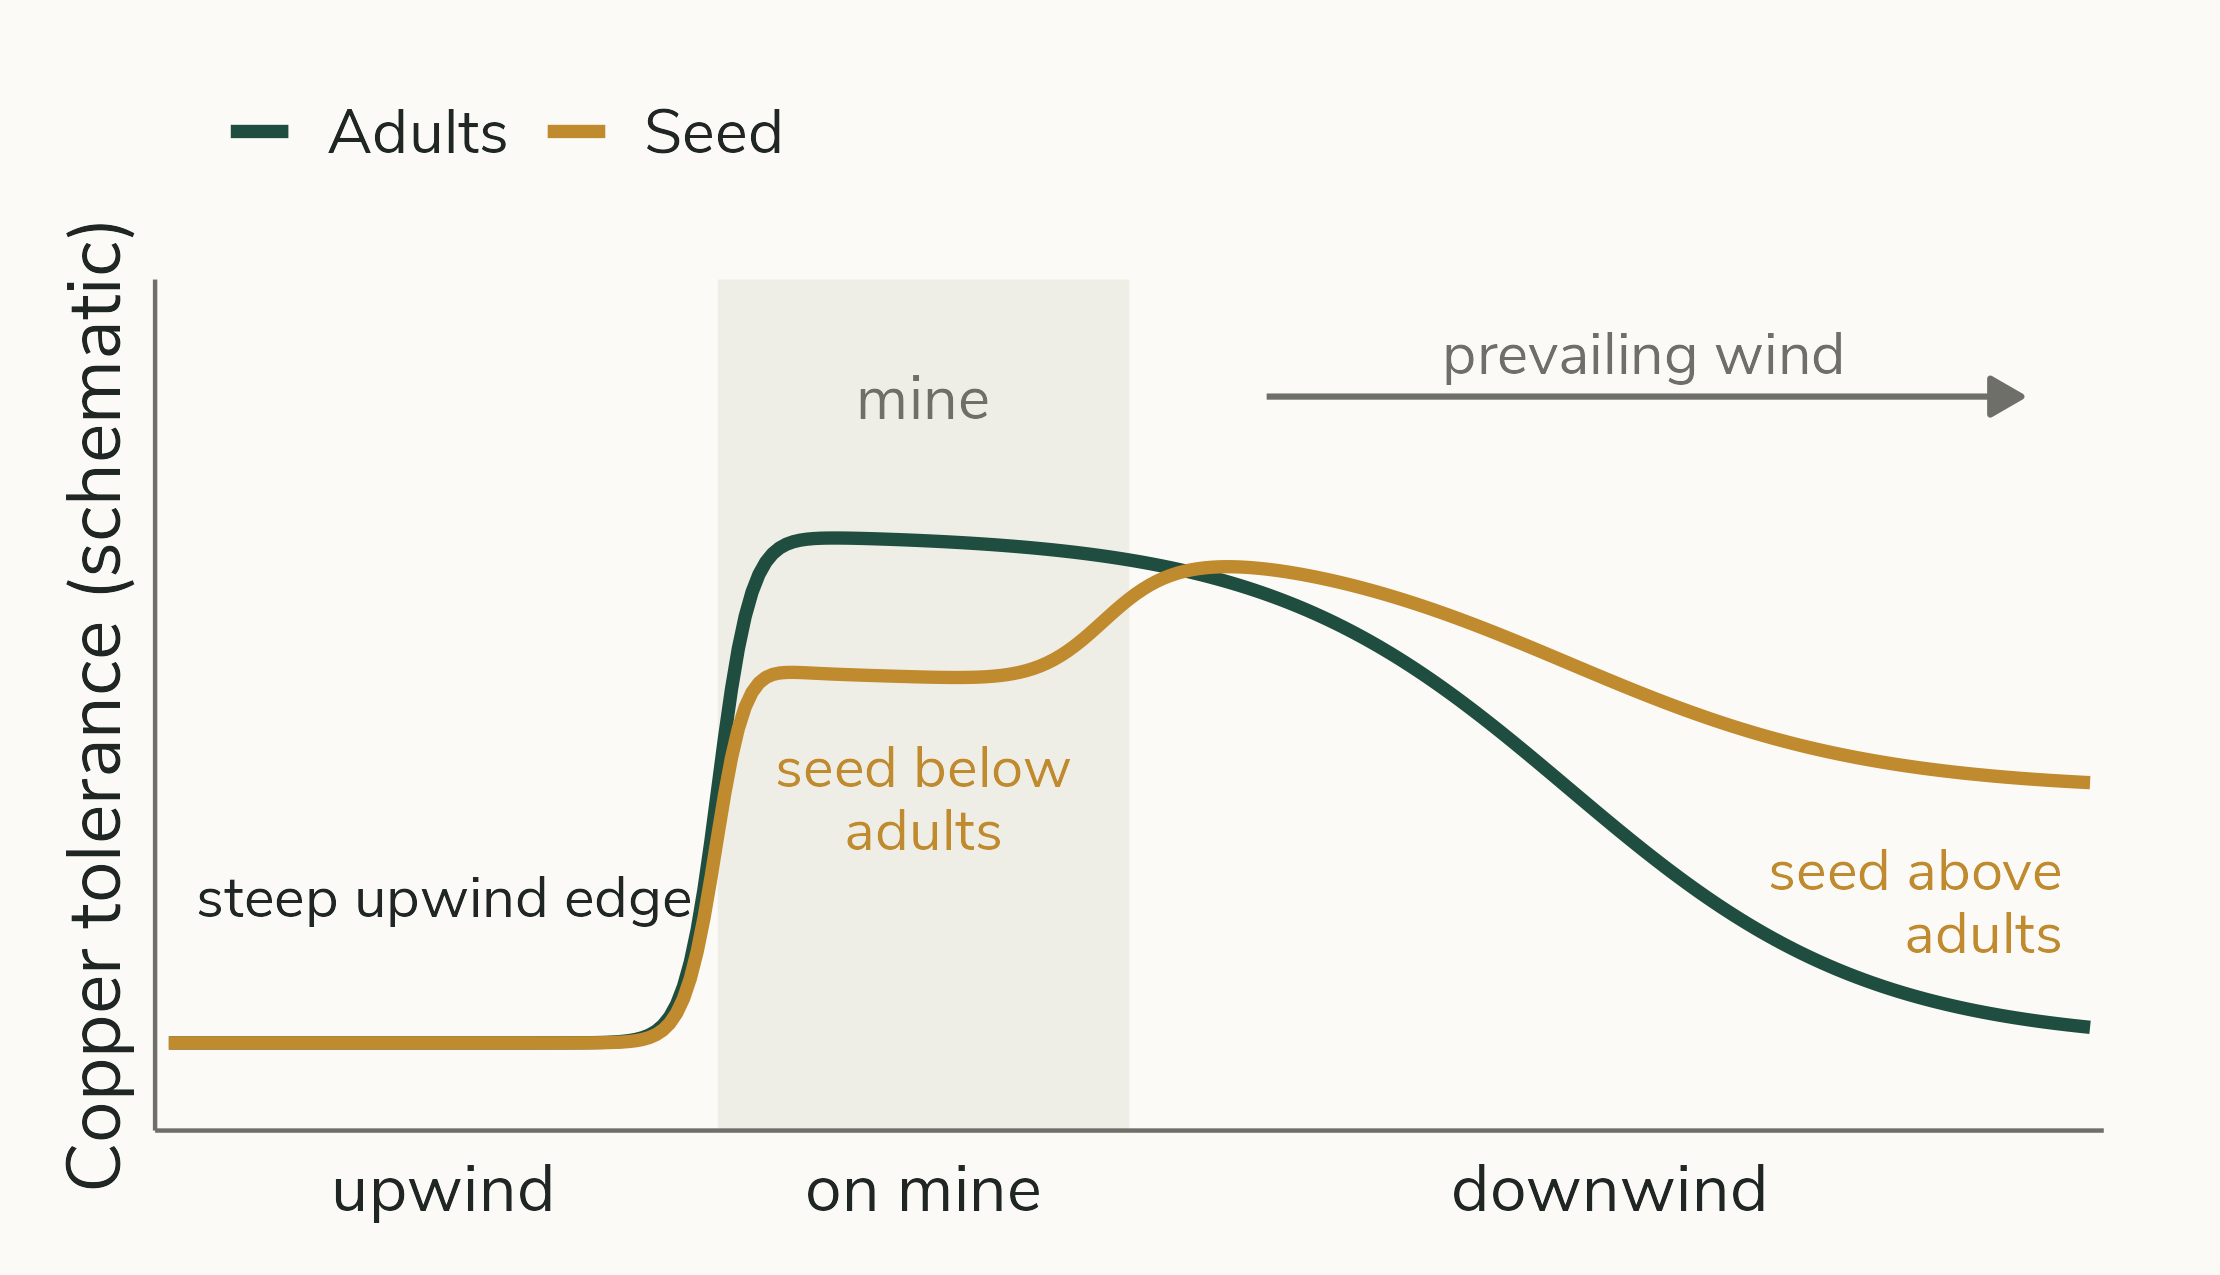
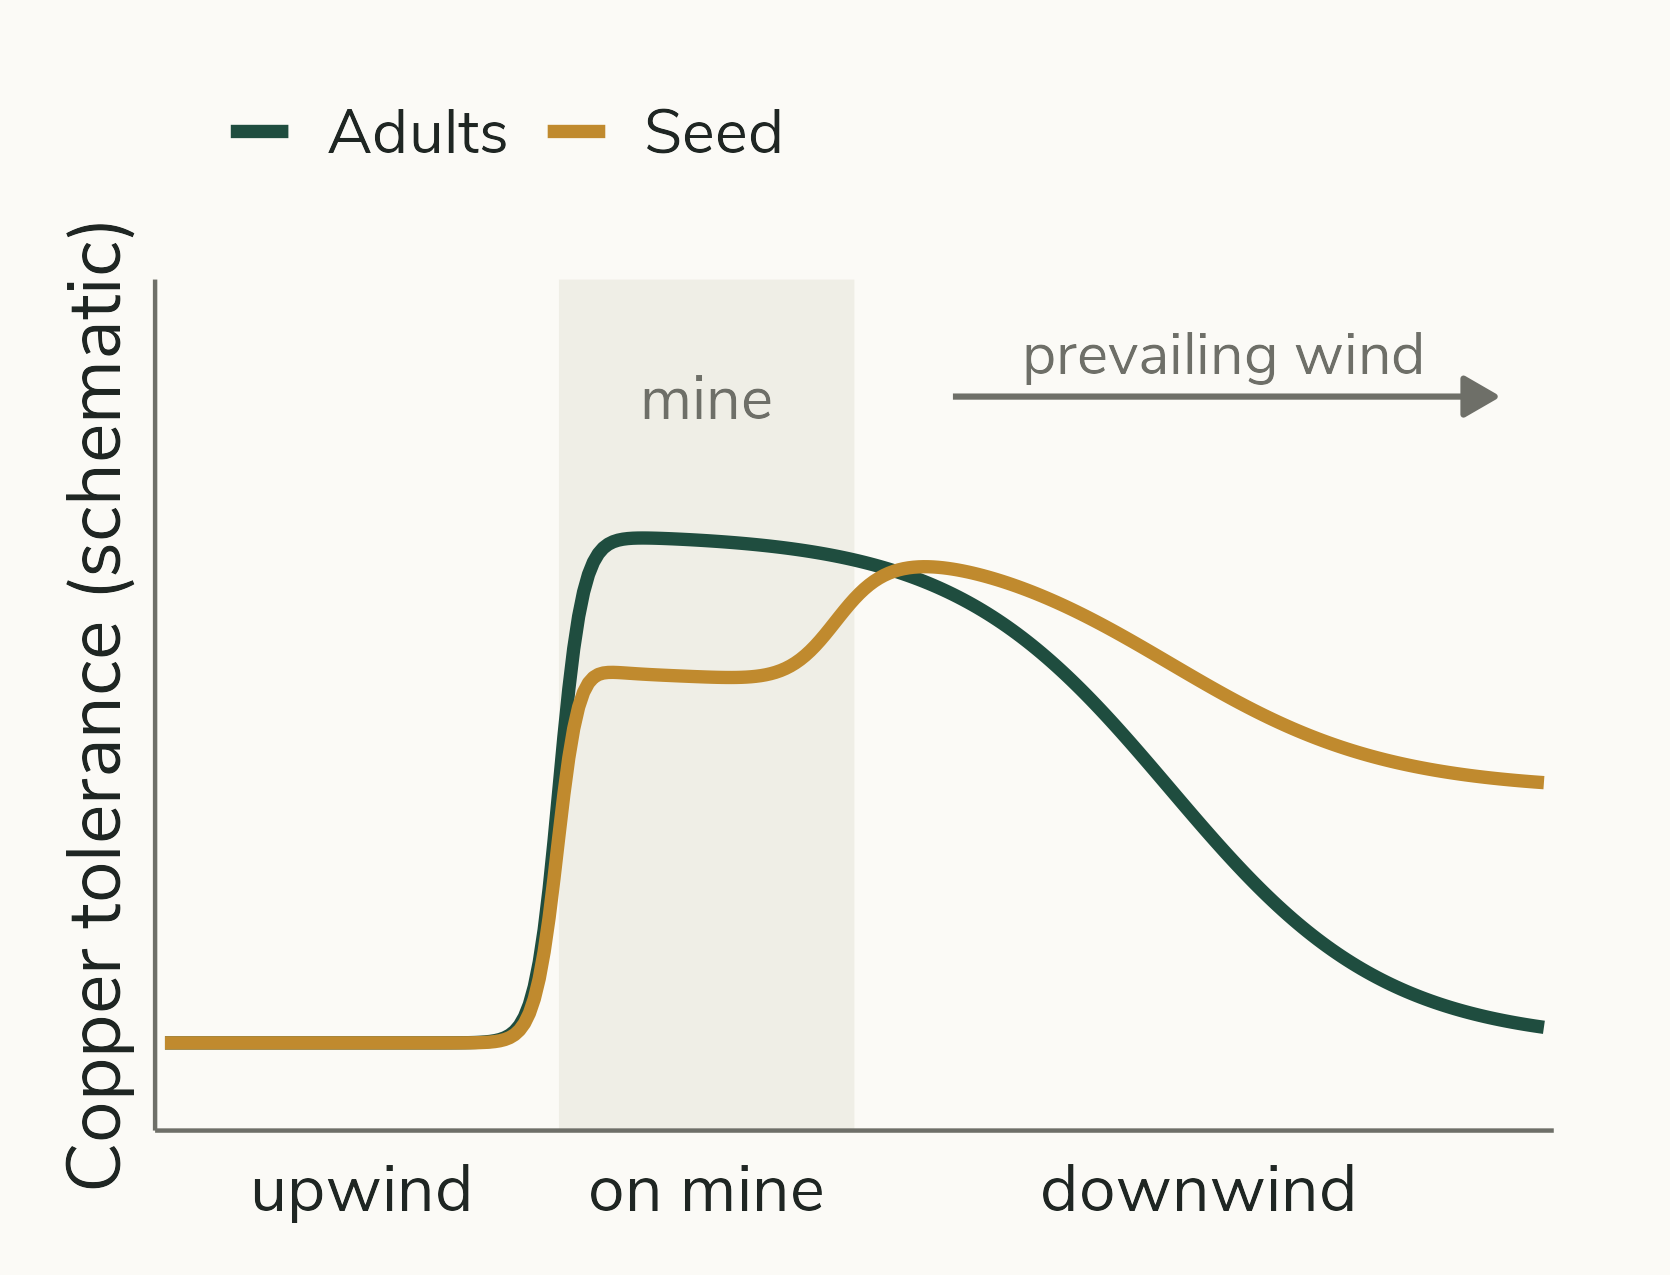
Lecture 12: make the copper-tolerance slide self-explanatory
Half-width figure with explanatory text: what seed and adults represent and
why the seed-adult difference reverses between the mine and downwind.

Claude-Session: https://claude.ai/code/session_01VCei2kxsiPRLUTCQGBi3dy

diff --git a/lecture_figures/migration_gene_flow/build_deck.py b/lecture_figures/migration_gene_flow/build_deck.py
@@ -369,15 +369,16 @@ Correction to previous version: it said that off the mine 'there has been no sel
 Image carried over from the previous version (filename 'Agrostis-capillaris_Flints_SHammonds.JPG'); record photographer and licence before sharing.""")
 
 # 21 Copper tolerance data
-s = new("Title, Bullets & Photo")
+s = new("Figure & Bullets")
 fill(ph(s, 100), "Pollen carries tolerance downwind")
 picture(s, 101, FIG + "21_copper_tolerance.png")
-fill(ph(s, 103), "TAKEAWAY")
-fill(ph(s, 105), [
-    "Upwind: an abrupt drop at the mine edge",
-    "Downwind: tolerance extends well off the mine",
-    "Seed is below adults on the mine, above them downwind: gene flow in, selection out",
-])
+fill(ph(s, 102), [
+    "**Seed**: offspring after gene flow (fathers via wind-borne pollen). **Adults**: survivors of selection.",
+    "On the mine: non-tolerant pollen blows in, so seed is less tolerant; copper then kills non-tolerant seedlings.",
+    "Downwind: tolerant pollen blows off the mine, so seed is more tolerant; on normal soil, tolerant plants do worse and are lost.",
+    "Upwind: little pollen arrives, so the edge stays steep.",
+    "Gene flow pulls one way, selection pulls back: the cline is the balance.",
+], size=16)
 notes(s, """~2.5 min.
 Site: Drws-y-Coed, a small (about 300 x 100 m) copper mine on a glaciated valley floor in North Wales (McNeilly 1968). Transect 1 is at the upwind end of the mine, transect 2 at the downwind end.
 What McNeilly reports: upwind, tolerant adults stop abruptly between the last mine site and a site 1 m off the mine; downwind, tolerant adults extend well onto normal soil with no abrupt change. Every seed sample from the mine was markedly less tolerant than its adults, and every off-mine seed sample downwind was more tolerant than its adults.

diff --git a/lecture_figures/migration_gene_flow/README.md b/lecture_figures/migration_gene_flow/README.md
@@ -21,7 +21,7 @@ Avenir Next before final use.
 | `15_migration_selection.R` | 15 | Analytical, checked by iteration | q̂ = √(m/s), s = 0.25, wings recessive; exact when censused after immigration |
 | `17_stepping_stone_diagram.R` | 17 | Schematic | Neal Fig. 9.3 |
 | `18_stepping_stone_cline.R` | 18 | Deterministic iteration to equilibrium | Neal Fig. 9.4; m = 0.2, barrier m = 0.05 between 4–5 and 5–6 |
-| `21_copper_tolerance.R` | 21 | **Schematic** | Pattern from McNeilly (1968) text; values illustrative, not data |
+| `21_copper_tolerance.R` | 19 | **Schematic** (half width) | Pattern from McNeilly (1968) text; values illustrative, not data |
 | `24_heterozygosity_levels.R` | 24 | Schematic | H_I, H_S, H_T and F_IS, F_ST, F_IT |
 | `27b_number_vs_proportion.R` | 28 | Analytical rules of thumb | Drift beaten when N_e·m ≈ 1 (a number); selection swamped when m ≈ s (a proportion); s = 0.01 |
 | `28_fst_nm.R` | 28 | Analytical | F_ST ≈ 1/(4Nm + 1); checkerspot band Nm 3.8–14.5 (7 of 8 loci; Slatkin 1987, Table 1) |
